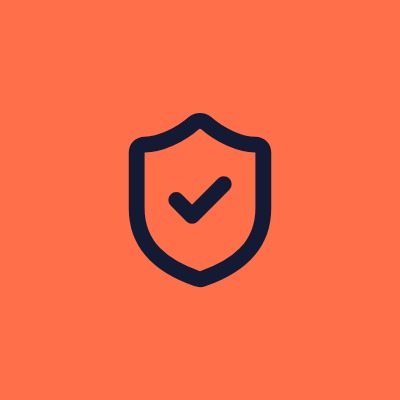
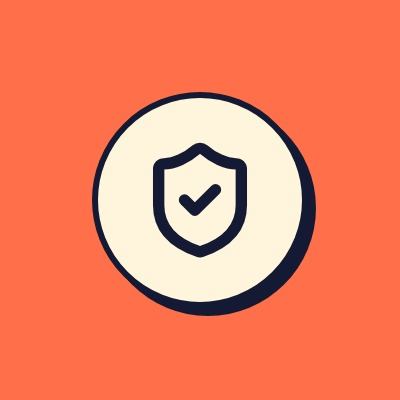
Instagram: themed highlights with title stories, a white profile mock, creative lists and a package
- extras.mjs: each of the six highlights gets a themed cover (game, 1-2-3, the
  cartoon cat, a shield, the price, the two portraits) and a 1080x1920 title story
- preview: the phone mock is always white, like Instagram itself; the page shows
  the title stories and what goes inside every highlight; the builder now also
  writes INSTAGRAM.md (every creative, in posting order, with pins and
  highlights), MOTION.md (the seven motion-graphics reels, scene by scene) and
  out/instagram-creatives.zip (not committed); it tolerates the pins and text
  posts the other desks have added
- out/instagram-profile.png: the profile as it will look

Claude-Session: https://claude.ai/code/session_01DtGyjPrLYBdfsoFsnT7baz

Changed region(s): [[0.21, 0.21, 0.81, 0.81]]

diff --git a/social/concept/preview/template.html b/social/concept/preview/template.html
@@ -13,10 +13,10 @@
 }
 @media (prefers-color-scheme: dark){:root:not([data-theme="light"]){
   --bg:#0B0F24; --surface:#141A33; --ink:#FFF4DC; --muted:#A9B0D0; --line:#262E55; --soft:#1B2247;
-  --app:#000000; --app-fg:#F5F5F5; --app-muted:#A8A8B3; --app-line:#262626; --app-chip:#1C1C1F; color-scheme:dark}}
+  --app:#FFFFFF; --app-fg:#0C0C0F; --app-muted:#737380; --app-line:#E6E6EA; --app-chip:#EFEFF2; color-scheme:dark}}
 :root[data-theme="dark"]{
   --bg:#0B0F24; --surface:#141A33; --ink:#FFF4DC; --muted:#A9B0D0; --line:#262E55; --soft:#1B2247;
-  --app:#000000; --app-fg:#F5F5F5; --app-muted:#A8A8B3; --app-line:#262626; --app-chip:#1C1C1F; color-scheme:dark}
+  --app:#FFFFFF; --app-fg:#0C0C0F; --app-muted:#737380; --app-line:#E6E6EA; --app-chip:#EFEFF2; color-scheme:dark}
 *{box-sizing:border-box}
 body{background:var(--bg);color:var(--ink);font-family:var(--body);font-size:16px;line-height:1.55}
 .wrap{max-width:1200px;margin:0 auto;padding-block:36px 72px;padding-left:max(16px,env(safe-area-inset-left,0px));padding-right:max(16px,env(safe-area-inset-right,0px))}
@@ -127,6 +127,7 @@ en,.en{font-family:var(--latin);font-weight:800;letter-spacing:-.035em}
   .field{grid-template-columns:minmax(0,1fr);gap:4px}.two{grid-template-columns:minmax(0,1fr)}.logos{grid-template-columns:96px minmax(0,1fr)}.logos figure:last-child{grid-column:1/-1}
   .phone{padding:0;border-radius:0;background:transparent;box-shadow:none}.screen{border-radius:18px;box-shadow:0 0 0 1px var(--line)}}
 @media (prefers-reduced-motion:reduce){*{scroll-behavior:auto!important;transition:none!important}}
+.hlin{margin:10px 0 0;padding-left:18px;font-size:14px}.hlin li{margin-bottom:3px}
 </style>
 
 <div class="wrap">
@@ -307,6 +308,8 @@ const byN = (n) => POSTS.find((p) => p.n === n);
 
 document.getElementById('hls').innerHTML = HL.map(([f,t]) => `<div class="hl"><img src="n/h-${f}.jpg" alt="">${esc(t)}</div>`).join('');
 document.getElementById('hlrow').innerHTML = HL.map(([f,t]) => `<figure><img src="n/h-${f}.jpg" alt="">${esc(t)}</figure>`).join('');
+const HLIN = {'free-lesson':'заставка, потом слайды поста №10','how-it-works':'заставка, потом ролик №6','kid-made':'заставка, потом ролики №7, №1 и №4','is-it-safe':'заставка, потом слайды поста №3','pricing':'заставка: обе цены на ней','about-us':'заставка, потом ролик №2 и отзывы из поста №9'};
+document.getElementById('hlrow').insertAdjacentHTML('afterend', '<div class="strip-h">Заставка каждого хайлайта и что внутри</div><div class="strip">' + HL.map(([f,t],i) => `<button type="button" data-seq="${HL.map((h) => 'st-' + h[0]).join(',')}" data-i="${i}" aria-label="Заставка: ${esc(t)}"><img src="p/st-${f}.jpg" alt="" loading="lazy"></button>`).join('') + '</div><ul class="hlin">' + HL.map(([f,t]) => `<li><b>${esc(t)}</b>: ${HLIN[f]}</li>`).join('') + '</ul>');
 document.getElementById('grid').innerHTML = GRID.map((n) => { const p = byN(n);
   return `<button class="tile" type="button" data-n="${n}" aria-label="Пост ${n}: ${esc(p.title)}"><img src="n/${p.img}.jpg" alt="">${p.fmt === 'Reel' ? IC.reel : IC.car}${p.pin ? IC.pin : ''}</button>`; }).join('');
 document.getElementById('rubrics').innerHTML = Object.values(R).map((r) =>

diff --git a/social/concept/INSTAGRAM.md b/social/concept/INSTAGRAM.md
@@ -1,0 +1,126 @@
+# Instagram: все креативы первой партии
+
+Порядок публикации. Файлы лежат в `social/concept/posts/<папка>/`; тот же набор собран в архив `out/instagram-creatives.zip`.
+
+| № | День | Креатив | Формат | Рубрика | Закреп | Файлы | Статус |
+|---|---|---|---|---|---|---|---|
+| 1 | Пн | **From crayon to cartoon.** | ролик, 14 с, со звуком | show 01 |  | `01-crayon-to-cartoon/`: `reel.mp4`, `cover.jpg`, `caption.md` | ждёт подтверждения, что рисунок детский |
+| 2 | Вт | **Meet Anna & Kamilla.** | ролик, 19 с, со звуком | make 01 | да | `02-meet-anna-kamilla/`: `reel.mp4`, `cover.jpg`, `caption.md` | собран |
+| 3 | Ср | **5 AI house rules.** | карусель, 9 слайдов | lab 01 |  | `03-ai-house-rules/`: `slide-01…09.jpg`, `caption.md` | собран |
+| 4 | Чт | **Idea at 7:02. Game by 7:41.** | ролик, 18 с, со звуком | show 02 |  | `04-idea-to-game/`: `reel.mp4`, `cover.jpg`, `caption.md` | ждёт подтверждения истории «7:02 → 7:41» |
+| 5 | Сб | **A reason to show you.** | ролик, 16 с, со звуком | lab 02 |  | `05-reason-to-show/`: `reel.mp4`, `cover.jpg`, `caption.md` | собран |
+| 6 | Пн | **Watch. Make. Show.** | ролик, 18 с, со звуком | make 02 |  | `06-watch-make-show/`: `reel.mp4`, `cover.jpg`, `caption.md` | собран |
+| 7 | Вт | **Made by a 10-year-old.** | ролик, 18 с, со звуком | show 03 | да | `07-made-by-10-year-old/`: `reel.mp4`, `cover.jpg`, `caption.md` | собран |
+| 8 | Ср | **Will AI think for my kid?** | ролик, 18 с, со звуком | lab 03 |  | `08-will-ai-think/`: `reel.mp4`, `cover.jpg`, `caption.md` | собран |
+| 9 | Пт | **8 families tried it first.** | карусель, 9 слайдов | show 04 |  | `09-first-families/`: `slide-01…09.jpg`, `caption.md` | собран |
+| 10 | Вс | **Free first lesson.** | карусель, 7 слайдов | start  | да | `10-free-first-lesson/`: `slide-01…07.jpg`, `caption.md` | собран |
+
+## Что внутри каждого
+
+### 1. From crayon to cartoon.
+Зачем: Главное обещание курса видно за три секунды. Формат «рисунок ожил» лучше всего подтверждён в нише. Перешлют: Мама — папе или бабушке.
+
+1. «A 6-year-old drew this.» и рисунок на бумаге
+2. «One lesson later.»: рядом появляется мультяшная версия
+3. «Who did what.»: ребёнок, ИИ и родитель
+4. Финал: «What will yours draw?»
+
+### 2. Meet Anna & Kamilla.
+Зачем: Перед покупкой детского продукта родитель смотрит, кто за ним стоит. Перешлют: Мама — партнёру.
+
+1. «A mom and a daughter.» и два портрета
+2. «Not a corporation.»
+3. «Anna built every lesson.» Домашку проверяет в тот же день
+4. «Kamilla, 10, goes first.»
+5. «Tested at our kitchen table.»
+6. Финал: «A mom, a daughter, and you.»
+
+### 3. 5 AI house rules.
+Зачем: Безопасность — первое возражение родителей. Справочный пост сохраняют и пересылают. Перешлют: Мама — в родительский чат и партнёру.
+
+1. Обложка: пять правил, список выглядывает снизу
+2. «Almost 9 in 10 kids already use AI», с источником
+3. Пять правил, по слайду на каждое
+4. Все пять списком: слайд для скриншота
+5. «Send it to a parent who needs it.»
+
+### 4. Idea at 7:02. Game by 7:41.
+Зачем: Снимает «у меня нет времени»: один вечер, 39 минут. Перешлют: Мама — папе: «давай сегодня попробуем».
+
+1. «7:02 pm. Her idea.»: парк, девочка и корги
+2. «7:41 pm. Playing it.» и игра на экране
+3. «Against each other. Same table.» и фото
+4. «She decided. She told the AI. She checked. She fixed.»
+5. Финал: «Your kid’s idea. Tonight?»
+
+### 5. A reason to show you.
+Зачем: Позиция, с которой соглашаются и которую пересылают. Отстраивает и от «экраны зло», и от «без ИИ отстанет». Перешлют: Мама — подруге или партнёру: «это про нас».
+
+1. «Kids don’t need more screen time.» и телефон с бесконечной лентой
+2. «They need a reason to show you something.» и фото Камиллы
+3. «A screen she makes on is not a screen she scrolls.»
+4. Финал: «Make the screen worth it.»
+
+### 6. Watch. Make. Show.
+Зачем: Объясняет курс за 15 секунд и убирает вопрос «а что мы будем делать». Перешлют: Мама — себе в сохранённое.
+
+1. «One lesson. Three steps.» 6–20 минут
+2. Watch: Камилла сначала показывает готовое
+3. Make: ребёнок делает, родитель рядом
+4. Show: сыграть, отправить бабушке
+5. Финал: «One lesson. One real thing.»
+
+### 7. Made by a 10-year-old.
+Зачем: Лучшее доказательство и желание: «мой бы тоже хотел». Перешлют: Мама — ребёнку или бабушке.
+
+1. «Made by a 10-year-old.»
+2. Отрывок её мультфильма: настоящее видео внутри ролика
+3. Игра, в которую можно играть
+4. Стикеры с её персонажем, крупно
+5. Финал: «What would yours make?»
+
+### 8. Will AI think for my kid?
+Зачем: Второе возражение: «ИИ сделает его ленивым». Здесь же главная мысль бренда. Перешлют: Мама — скептичному партнёру или знакомой учительнице.
+
+1. «Will AI think for my kid?»
+2. «Only if the AI has the ideas.»
+3. Четыре шага: decides → tells the AI → checks → fixes
+4. «Don’t let AI think for your child. Teach them to think with it.»
+5. Финал: «Let them do the thinking.»
+
+### 9. 8 families tried it first.
+Зачем: Отзывы людей, похожих на зрителя. Бабушки открывают тему подарка перед праздниками. Перешлют: Мама — своей маме.
+
+1. Обложка с цитатой Эмили
+2. «They got it free.»: честно, с первого слайда
+3. Пять семей: дословная строка, фото и что сделали
+4. «What they made»: все восемь списком
+5. «Try the first lesson free.» и пометка про бесплатный доступ
+
+### 10. Free first lesson.
+Зачем: Предложение сказано прямо. Сюда ведут все остальные посты. Перешлют: Мама — партнёру: «попробуем бесплатно».
+
+1. Обложка: бесплатный первый урок
+2. «Worst case: 20 minutes on the couch.»
+3. Три шага, по слайду на каждый
+4. Все три шага списком
+5. «Free first lesson. Link in bio.»
+
+## Закрепы
+
+Три поста закрепляются наверху сетки: №10 (как начать), №2 (кто мы), №7 (лучшее доказательство).
+
+## Хайлайты
+
+| Хайлайт | Обложка | Заставка | Что внутри |
+|---|---|---|---|
+| Free lesson | `out/highlight-free-lesson.jpg` | `out/story-free-lesson.jpg` | заставка, затем слайды поста №10 (вертикальные, из posts/10-free-first-lesson/tiktok/) |
+| How it works | `out/highlight-how-it-works.jpg` | `out/story-how-it-works.jpg` | заставка, затем ролик №6 |
+| Kid-made | `out/highlight-kid-made.jpg` | `out/story-kid-made.jpg` | заставка, затем ролики №7, №1 и №4 |
+| Is it safe? | `out/highlight-is-it-safe.jpg` | `out/story-is-it-safe.jpg` | заставка, затем слайды поста №3 (вертикальные, из posts/03-ai-house-rules/tiktok/) |
+| Pricing | `out/highlight-pricing.jpg` | `out/story-pricing.jpg` | заставка: обе цены стоят на ней |
+| About us | `out/highlight-about-us.jpg` | `out/story-about-us.jpg` | заставка, затем ролик №2 и отзывы из поста №9 |
+
+## Шапка профиля
+
+Имя: `Make Show Lab | AI for Kids`. Описание, ссылка и аватар: `PLAN.md`, раздел 4.

diff --git a/social/concept/MOTION.md b/social/concept/MOTION.md
@@ -1,0 +1,79 @@
+# Ролики с моушен-графикой
+
+Семь роликов первой партии. Все собраны как графика из фото и работ с сайта: 1080×1920, 30 кадров в секунду, музыка и звуковые эффекты внутри, голоса пока нет.
+Один и тот же файл идёт в Instagram, TikTok, Facebook и YouTube Shorts.
+
+| № | Ролик | Длина | Сцен | Из чего собран | Что усилит | Статус | Файл |
+|---|---|---|---|---|---|---|---|
+| 1 | **From crayon to cartoon.** | 14 с | 4 | Рисунок и мультик с лендинга. | Видео рук, которые рисуют фломастерами. | ждёт подтверждения, что рисунок детский | `posts/01-crayon-to-cartoon/reel.mp4` |
+| 2 | **Meet Anna & Kamilla.** | 19 с | 6 | Портреты Ани и Камиллы, фото за столом. | 15–20 секунд Ани в камеру. | собран | `posts/02-meet-anna-kamilla/reel.mp4` |
+| 4 | **Idea at 7:02. Game by 7:41.** | 18 с | 5 | Игра Камиллы и фото за столом. | Запись экрана игры, 5–8 секунд. | ждёт подтверждения истории «7:02 → 7:41» | `posts/04-idea-to-game/reel.mp4` |
+| 5 | **A reason to show you.** | 16 с | 4 | Фото шага Show и графика. | Видео, где Камилла показывает экран. | собран | `posts/05-reason-to-show/reel.mp4` |
+| 6 | **Watch. Make. Show.** | 18 с | 5 | Три фото шагов с лендинга. | Короткие видео каждого шага. | собран | `posts/06-watch-make-show/reel.mp4` |
+| 7 | **Made by a 10-year-old.** | 18 с | 5 | Мультфильм, игра и фото со стикерами. Сайт убран: на скриншоте его делает Аня, а не Камилла. | Скриншот сайта, который сделала сама Камилла, если такой есть. | собран | `posts/07-made-by-10-year-old/reel.mp4` |
+| 8 | **Will AI think for my kid?** | 18 с | 5 | Графика и нарисованные Камилла и Аня. | — | собран | `posts/08-will-ai-think/reel.mp4` |
+
+## Сцены по порядку
+
+### 1. From crayon to cartoon.
+
+1. «A 6-year-old drew this.» и рисунок на бумаге
+2. «One lesson later.»: рядом появляется мультяшная версия
+3. «Who did what.»: ребёнок, ИИ и родитель
+4. Финал: «What will yours draw?»
+
+### 2. Meet Anna & Kamilla.
+
+1. «A mom and a daughter.» и два портрета
+2. «Not a corporation.»
+3. «Anna built every lesson.» Домашку проверяет в тот же день
+4. «Kamilla, 10, goes first.»
+5. «Tested at our kitchen table.»
+6. Финал: «A mom, a daughter, and you.»
+
+### 4. Idea at 7:02. Game by 7:41.
+
+1. «7:02 pm. Her idea.»: парк, девочка и корги
+2. «7:41 pm. Playing it.» и игра на экране
+3. «Against each other. Same table.» и фото
+4. «She decided. She told the AI. She checked. She fixed.»
+5. Финал: «Your kid’s idea. Tonight?»
+
+### 5. A reason to show you.
+
+1. «Kids don’t need more screen time.» и телефон с бесконечной лентой
+2. «They need a reason to show you something.» и фото Камиллы
+3. «A screen she makes on is not a screen she scrolls.»
+4. Финал: «Make the screen worth it.»
+
+### 6. Watch. Make. Show.
+
+1. «One lesson. Three steps.» 6–20 минут
+2. Watch: Камилла сначала показывает готовое
+3. Make: ребёнок делает, родитель рядом
+4. Show: сыграть, отправить бабушке
+5. Финал: «One lesson. One real thing.»
+
+### 7. Made by a 10-year-old.
+
+1. «Made by a 10-year-old.»
+2. Отрывок её мультфильма: настоящее видео внутри ролика
+3. Игра, в которую можно играть
+4. Стикеры с её персонажем, крупно
+5. Финал: «What would yours make?»
+
+### 8. Will AI think for my kid?
+
+1. «Will AI think for my kid?»
+2. «Only if the AI has the ideas.»
+3. Четыре шага: decides → tells the AI → checks → fixes
+4. «Don’t let AI think for your child. Teach them to think with it.»
+5. Финал: «Let them do the thinking.»
+
+## Что общего у всех семи
+
+- Первая надпись на экране с первого кадра, не больше шести слов на карточку.
+- Монтаж переставлен под ритм музыки: главный кадр попадает на вход основной темы, логотип на последний аккорд.
+- Звук: одна музыкальная тема на серию и настоящие записи эффектов (бумага, хлопки, карандаш).
+- Финальный кадр: логотип, «First lesson free» и адрес сайта.
+- Тексты для озвучки с хронометражем: `sound/VOICEOVER.md`.

diff --git a/social/desks/instagram.md b/social/desks/instagram.md
@@ -9,6 +9,9 @@
 - 10 постов собраны: 7 роликов со звуком и 3 карусели, подписи, обложки, плитки сетки
 - шапка профиля, хайлайты и закрепы описаны в `PLAN.md`, раздел 4
 - аккаунт @make_showlab подключён к Metricool
+- шесть хайлайтов: тематическая обложка и заставка-сторис у каждого (`out/highlight-*.jpg`, `out/story-*.jpg`)
+- списки: все креативы `INSTAGRAM.md`, ролики с моушен-графикой `MOTION.md`; архив со всеми файлами собирает `preview/make_page.py` в `out/instagram-creatives.zip`
+- вид профиля на белом фоне: `out/instagram-profile.png`
 
 ## Правила площадки, по которым пишем
 - неподписчикам показывают в основном ролики: 7 из 10 постов — ролики
@@ -36,3 +39,4 @@ social/concept/sound/build.sh 07   # звук (нужны записи и нав
 
 ## Журнал
 - 11.11.2026: отдел создан, первая партия собрана и ждёт утверждения.
+- 11.11.2026: хайлайты с тематическими обложками и заставками, списки креативов, архив, профиль на белом фоне.
